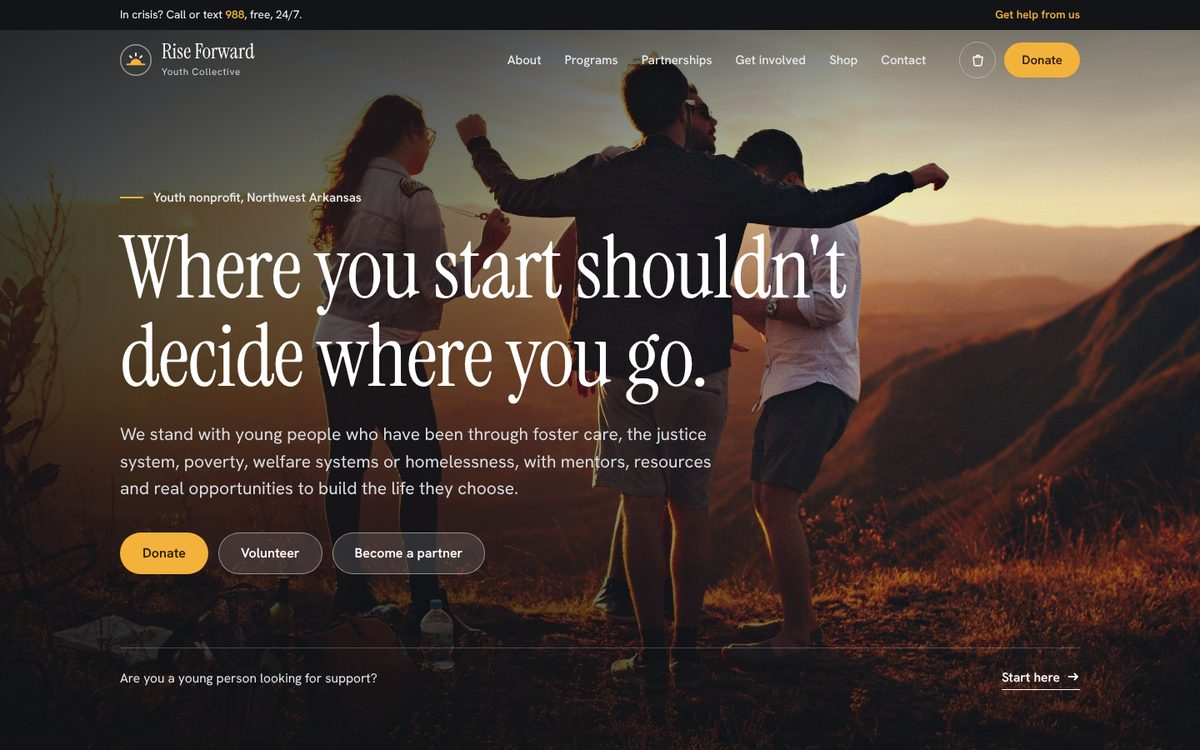
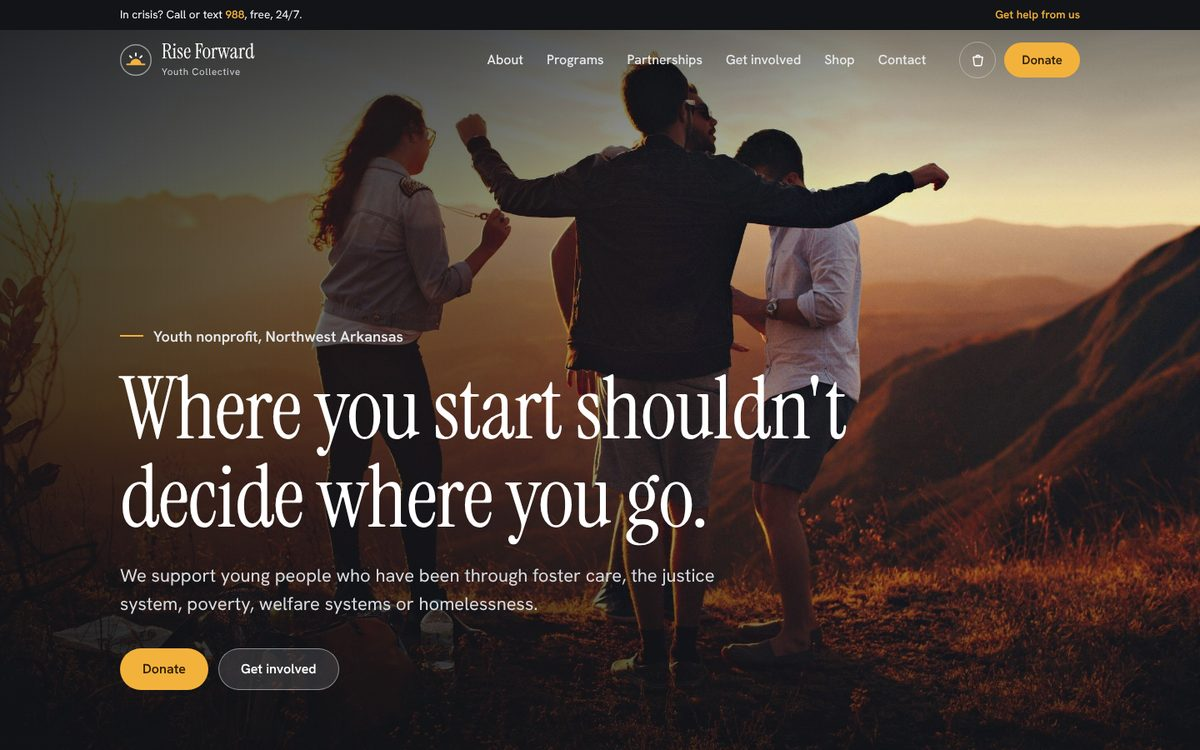
Rise Forward: simpler home page from client feedback
Two buttons in the hero, mission placeholder for the founder's wording,
program cards with text under the photo (stacked on phones), fewer buttons
in the help section, larger reading text, and warmer stats wording
('We are the hope of change'). Work page screenshots refreshed.

Claude-Session: https://claude.ai/code/session_01PLRpbjACppmeCpJ4SsRjVn

diff --git a/riseforward/index.html b/riseforward/index.html
@@ -21,7 +21,7 @@
 @font-face{font-family:"Instrument Serif";src:url(fonts/instrument-italic.woff2) format("woff2");font-weight:400;font-style:italic;font-display:swap}
 @font-face{font-family:"Hanken Grotesk";src:url(fonts/hanken.woff2) format("woff2");font-weight:400 700;font-style:normal;font-display:swap}
 :root{
---ink:#1d2024;--ink2:#2b2f34;--slate:#50565e;--mute:#6a7078;--line:#dcd9d3;--line2:#cfcbc4;
+--ink:#1d2024;--ink2:#2b2f34;--slate:#454b53;--mute:#5f656d;--line:#dcd9d3;--line2:#cfcbc4;
 --paper:#f6f5f2;--stone:#ebe8e3;--white:#fff;--sun:#f3b23c;--sun2:#ffc65c;--sun-ink:#2a1c00;
 --dline:rgba(255,255,255,.14);--dmute:#aeb3ba;
 --serif:"Instrument Serif",Georgia,"Times New Roman",serif;--sans:"Hanken Grotesk",system-ui,-apple-system,"Segoe UI",sans-serif;
@@ -371,6 +371,7 @@ body{font-size:16.5px}
 .cards4{display:flex;overflow-x:auto;scroll-snap-type:x mandatory;gap:12px;margin-inline:calc(var(--pad) * -1);padding-inline:var(--pad);scrollbar-width:none;padding-bottom:4px}
 .cards4::-webkit-scrollbar{display:none}
 .cards4 .pcard{flex:0 0 80%;scroll-snap-align:start;scroll-margin-left:var(--pad)}
+.cards4.simple{display:grid;grid-template-columns:1fr;overflow:visible;margin-inline:0;padding-inline:0;gap:40px}
 .stats{grid-template-columns:1fr}
 .stat,.stat+.stat{padding:28px 0;border-left:0}
 .stat+.stat{border-top:1px solid var(--dline)}
@@ -396,6 +397,25 @@ body{font-size:16.5px}
 .hero .bg{transform:none}.rise{opacity:1;transform:none}
 .js [data-reveal]{opacity:1;transform:none}
 }
+
+/* readable, structured cards (home) */
+.scard{display:flex;flex-direction:column;text-decoration:none;color:inherit}
+.scard .ph{aspect-ratio:4/3;border-radius:10px;overflow:hidden;background:#d8d5cf}
+.scard .ph img{width:100%;height:100%;object-fit:cover;transition:transform 1s var(--ease)}
+.scard:hover .ph img{transform:scale(1.04)}
+.scard small{display:block;margin-top:20px;font-size:15px;font-weight:600;color:var(--slate)}
+.scard h3{font:400 32px/1.1 var(--serif);margin-top:6px}
+.scard p{margin-top:10px;color:var(--ink2)}
+.more{display:inline-block;margin-top:16px;font-weight:600;text-decoration:underline;text-decoration-thickness:1.5px;text-underline-offset:4px}
+.scard:hover .more,.way:hover .more{color:#000;text-decoration-thickness:2.5px}
+a.way{display:block;text-decoration:none;color:inherit}
+.cards4.simple{gap:clamp(20px,2.4vw,32px)}
+/* larger, calmer reading on the home page */
+[data-page=home] .lede{font-size:clamp(19px,1.6vw,22px)}
+[data-page=home] p{font-size:18px}
+[data-page=home] .stat p{font-size:19px}
+[data-page=home] .note{font-size:15px}
+.links a{font-size:16px}
 .concept{position:fixed;left:16px;bottom:16px;z-index:60;display:inline-flex;align-items:center;gap:10px;padding:10px 16px 10px 14px;border-radius:999px;background:rgba(21,23,26,.92);color:#fff;font:500 13.5px/1.2 var(--sans);text-decoration:none;box-shadow:0 10px 30px -10px rgba(0,0,0,.5);backdrop-filter:blur(10px);-webkit-backdrop-filter:blur(10px);border:1px solid rgba(255,255,255,.12)}
 .concept i{width:8px;height:8px;border-radius:50%;background:var(--sun);flex:none;box-shadow:0 0 0 4px rgba(243,178,60,.22)}
 .concept b{font-weight:600}
@@ -439,9 +459,8 @@ body{font-size:16.5px}
 <div class="wrap on-photo">
 <p class="kicker rise">Youth nonprofit, Northwest Arkansas</p>
 <h1 class="rise d1" style="margin-top:20px">Where you start shouldn't decide where you go.</h1>
-<p class="lede rise d2">We stand with young people who have been through foster care, the justice system, poverty, welfare systems or homelessness, with mentors, resources and real opportunities to build the life they choose.</p>
-<div class="ctas rise d3"><a class="btn sun" href="#donate">Donate</a><a class="btn glass" href="#get-involved">Volunteer</a><a class="btn glass" href="#partners">Become a partner</a></div>
-<div class="hero-foot rise d4"><span>Are you a young person looking for support?</span><a class="arrow" href="#get-help">Start here <svg width="16" height="16" viewBox="0 0 16 16" fill="none" stroke="currentColor" stroke-width="1.8" aria-hidden="true"><path d="M2 8h11M9 4l4 4-4 4"/></svg></a></div>
+<p class="lede rise d2">We support young people who have been through foster care, the justice system, poverty, welfare systems or homelessness.</p>
+<div class="ctas rise d3"><a class="btn sun" href="#donate">Donate</a><a class="btn glass" href="#get-involved">Get involved</a></div>
 </div>
 </div>
 
@@ -449,60 +468,39 @@ body{font-size:16.5px}
 <div class="ph" data-reveal><img src="img/friends.jpg" alt="Young friends laughing together on outdoor steps" width="1600" height="901" loading="lazy"></div>
 <div data-reveal data-d="1">
 <p class="kicker">Our mission</p>
-<p class="big" style="margin-top:22px">We walk alongside young people until they're standing on their own: connecting them to the people, resources and opportunities they need to build stable, self-directed lives.</p>
-<div class="vision">
-<div><h3>Our vision</h3><p>A future where a young person's starting point never decides where they can go.</p></div>
-<div><h3>Who we serve</h3><p>Young people, roughly ages 14 to 24, whose path has been shaped by systems they didn't choose.</p></div>
-</div>
-<p class="note" style="margin-top:22px">Draft mission and vision. Final wording to be set by the founder and board.</p>
-<p style="margin-top:26px"><a class="arrow" href="#about">Read our story <svg width="16" height="16" viewBox="0 0 16 16" fill="none" stroke="currentColor" stroke-width="1.8" aria-hidden="true"><path d="M2 8h11M9 4l4 4-4 4"/></svg></a></p>
+<p class="big" style="margin-top:22px">We walk alongside young people until they're standing on their own, connecting them to the people, resources and opportunities they need to build stable lives.</p>
+<p class="note" style="margin-top:22px">Placeholder. The final mission statement is being written by the founder.</p>
 </div>
 </div></div>
 
 <div class="sec white"><div class="wrap">
-<div class="head"><div><p class="kicker">Who we serve, and how</p><h2>A program for every starting point.</h2></div><p class="lede">Four programs in development, each built around a different transition, with youth who have lived it helping shape the work.</p></div>
-<div class="cards4" id="homePrograms"></div>
+<div class="head"><div><p class="kicker">Who we serve</p><h2>Four programs, one goal.</h2></div><p class="lede">Each program supports young people, ages 14 to 24, through a different life transition.</p></div>
+<div class="cards4 simple" id="homePrograms"></div>
 </div></div>
 
 <div class="sec dark"><div class="wrap">
-<div class="head"><div><p class="kicker">Why this work matters</p><h2>The need is real, and it's measurable.</h2></div><p class="lede">National figures that show why we start at the moments young people most often fall through the gaps.</p></div>
+<div class="head"><div><p class="kicker">Why this work matters</p><h2>We are the hope of change.</h2></div><p class="lede">Behind every number is a young person whose voice matters. When we invest in them, our whole community grows stronger.</p></div>
 <div class="stats" data-reveal>
-<div class="stat"><b>15,379</b><p>young people aged out of U.S. foster care in fiscal year 2024 without a permanent family.</p><a href="https://adoptioncouncil.org/article/foster-care-and-adoption-statistics">National Council for Adoption, from federal AFCARS data</a></div>
-<div class="stat"><b>4.2M</b><p>U.S. youth and young adults, ages 13 to 25, experience some form of homelessness in a year.</p><a href="https://huduser.gov/portal/node/9693">Chapin Hall, Voices of Youth Count, via HUD</a></div>
-<div class="stat"><b>1 in 10</b><p>young adults ages 18 to 25 experience homelessness over a year, and at least 1 in 30 teens ages 13 to 17.</p><a href="https://www.chapinhall.org/news/ahead-of-congressional-reauthorization-new-study-shows-greater-reform-is-needed-in-runaway-and-homeless-youth-act/">Chapin Hall</a></div>
+<div class="stat"><b>15,379</b><p>young people aged out of U.S. foster care in 2024 without a permanent family.</p><a href="https://adoptioncouncil.org/article/foster-care-and-adoption-statistics">Source: National Council for Adoption</a></div>
+<div class="stat"><b>4.2M</b><p>U.S. youth and young adults, ages 13 to 25, experience homelessness in a year.</p><a href="https://huduser.gov/portal/node/9693">Source: Chapin Hall, via HUD</a></div>
+<div class="stat"><b>1 in 10</b><p>young adults ages 18 to 25 experience homelessness over a year.</p><a href="https://www.chapinhall.org/news/ahead-of-congressional-reauthorization-new-study-shows-greater-reform-is-needed-in-runaway-and-homeless-youth-act/">Source: Chapin Hall</a></div>
 </div>
 </div></div>
 
 <div class="sec"><div class="wrap">
-<div class="head"><div><p class="kicker">Get involved</p><h2>There's a place for you in this work.</h2></div><p class="lede">Give, show up or bring your organization to the table. Every role is about being consistent for young people.</p></div>
+<div class="head"><div><p class="kicker">How you can help</p><h2>There's a place for you.</h2></div></div>
 <div class="ways">
-<div class="way" data-reveal><div class="ph"><img src="img/give.jpg" alt="A smiling volunteer holding a box of fresh groceries" width="1400" height="2100" loading="lazy" style="object-position:50% 18%"></div><h3>Give</h3><p>One-time or monthly gifts fund programs directly. You choose where your gift goes.</p><a class="btn sun sm" href="#donate">Donate</a></div>
-<div class="way" data-reveal data-d="1"><div class="ph"><img src="img/volunteer.jpg" alt="A volunteer carrying a donation box" width="1600" height="1067" loading="lazy"></div><h3>Volunteer or mentor</h3><p>Share your time, skills or experience with a young person building their next step.</p><a class="btn ink sm" href="#get-involved">Get involved</a></div>
-<div class="way" data-reveal data-d="2"><div class="ph"><img src="img/partners.jpg" alt="A group of young adults talking and laughing outdoors" width="1600" height="1066" loading="lazy"></div><h3>Partner with us</h3><p>Service providers, employers, funders and community groups: let's build this together.</p><a class="btn line sm" href="#partners">Explore partnerships</a></div>
+<a class="way" href="#donate" data-reveal><div class="ph"><img src="img/give.jpg" alt="A smiling volunteer holding a box of fresh groceries" width="1400" height="2100" loading="lazy" style="object-position:50% 18%"></div><h3>Give</h3><p>One-time or monthly gifts fund our programs directly.</p><span class="more">Donate</span></a>
+<a class="way" href="#get-involved" data-reveal data-d="1"><div class="ph"><img src="img/volunteer.jpg" alt="A volunteer carrying a donation box" width="1600" height="1067" loading="lazy"></div><h3>Volunteer or mentor</h3><p>Share your time, skills or experience with a young person.</p><span class="more">Volunteer</span></a>
+<a class="way" href="#partners" data-reveal data-d="2"><div class="ph"><img src="img/partners.jpg" alt="A group of young adults talking and laughing outdoors" width="1600" height="1066" loading="lazy"></div><h3>Partner with us</h3><p>Organizations, employers and funders working with us.</p><span class="more">Partner with us</span></a>
 </div>
-</div></div>
-
-<div class="sec stone"><div class="wrap feature">
-<div class="ph" data-reveal><img src="img/graduate.jpg" alt="A smiling graduate in cap and gown" width="1400" height="2114" loading="lazy" style="object-position:50% 25%"></div>
-<div data-reveal data-d="1">
-<p class="kicker">Where we're headed</p>
-<h2>A plan, a person and a place for every young person.</h2>
-<p class="lede">In our first years we're building four core programs, forming partnerships with local providers and employers, and recruiting our first mentors. Long term, every young person leaving a system in our community should have someone in their corner.</p>
-<div class="ctas"><a class="btn ink" href="#programs">See our programs</a><a class="btn line" href="#about">About us</a></div>
-</div>
-</div></div>
-
-<div class="sec white"><div class="wrap">
-<div class="head"><div><p class="kicker">Shop</p><h2>Wear what you stand for.</h2></div><div><p class="lede">Apparel and goods from Rise Forward, plus move-in kits you can sponsor for a young person's first home.</p><p style="margin-top:20px"><a class="arrow" href="#shop">Visit the shop <svg width="16" height="16" viewBox="0 0 16 16" fill="none" stroke="currentColor" stroke-width="1.8" aria-hidden="true"><path d="M2 8h11M9 4l4 4-4 4"/></svg></a></p></div></div>
-<div class="pgrid four" id="homeProducts"></div>
 </div></div>
 
 <div class="band-photo">
 <img src="img/together.jpg" alt="" width="1600" height="1128" loading="lazy">
 <div class="wrap">
-<p class="kicker" style="color:#e6e8eb">Make the next step possible</p>
-<h2 style="margin-top:18px">Help a young person take the next step.</h2>
-<div class="ctas"><a class="btn sun" href="#donate">Donate today</a><a class="btn glass" href="#get-involved">Volunteer</a></div>
+<h2>Help a young person take the next step.</h2>
+<div class="ctas"><a class="btn sun" href="#donate">Donate</a></div>
 </div>
 </div>
 </section>
@@ -529,7 +527,7 @@ body{font-size:16.5px}
 </div>
 </div></div>
 <div class="sec dark"><div class="wrap">
-<div class="head"><div><p class="kicker">The challenges young people face</p><h2>The gaps are where young people fall.</h2></div><p class="lede">Leaving care, coming home from detention, losing housing, or getting lost in benefits paperwork: each transition can undo years of progress without the right support.</p></div>
+<div class="head"><div><p class="kicker">The challenges young people face</p><h2>Their voices matter. So does our community.</h2></div><p class="lede">Leaving care, coming home from detention, losing housing or getting lost in paperwork can set a young person back. With the right support, each of these moments can become a fresh start, and a stronger community for all of us.</p></div>
 <div class="stats" data-reveal>
 <div class="stat"><b>15,379</b><p>young people aged out of U.S. foster care in fiscal year 2024 without a permanent family.</p><a href="https://adoptioncouncil.org/article/foster-care-and-adoption-statistics">National Council for Adoption, from federal AFCARS data</a></div>
 <div class="stat"><b>4.2M</b><p>U.S. youth and young adults, ages 13 to 25, experience some form of homelessness in a year.</p><a href="https://huduser.gov/portal/node/9693">Chapin Hall, Voices of Youth Count, via HUD</a></div>
@@ -740,7 +738,7 @@ body{font-size:16.5px}
 </main>
 
 <footer class="site"><div class="wrap">
-<div class="fbig"><h2>Every young person deserves someone in their corner.</h2><a class="btn sun" href="#donate">Donate</a></div>
+<div class="fbig"><h2>Every young person deserves someone in their corner.</h2></div>
 <div class="fcols">
 <div><p style="font:400 26px/1.1 var(--serif);color:#fff">Rise Forward Youth Collective</p><p style="margin-top:12px;max-width:24em">Supporting young people impacted by foster care, the justice system, poverty, welfare systems and homelessness.</p><p style="margin-top:14px">Need help now? Call or text <a class="tlink" href="tel:988" style="color:#fff">988</a>.</p></div>
 <nav aria-label="Organization"><b>Organization</b><a href="#about">About</a><a href="#programs">Programs</a><a href="#partners">Partnerships</a><a href="#get-involved">Get involved</a></nav>
@@ -775,7 +773,7 @@ const PROGRAMS=[
 {id:'steady-ground',name:'Steady Ground',group:'Poverty and homelessness',img:'steady-ground.jpg',pos:'45% 50%',alt:'Volunteers packing boxes of food and essentials',short:'Housing navigation, emergency essentials and connections to safe shelter.',who:'Young people experiencing homelessness, couch surfing or living in poverty.',intro:'Stability starts with tonight. Steady Ground connects young people to a safe place to stay and then to the steps that lead to housing of their own.',goals:['Safe shelter or housing the same week','Basic needs covered: food, hygiene, a working phone','A path to stable housing within 90 days'],res:['Housing navigation','Emergency essentials and hygiene kits','Shelter and host-home referrals','Food access','Phone and transit support']},
 {id:'navigate',name:'Navigate',group:'Welfare systems',img:'navigate.jpg',pos:'45% 50%',alt:'A young person meeting one-on-one with an advisor',short:'One-on-one help with benefits, paperwork and appointments for youth and families.',who:'Young people and families working through welfare and benefits systems.',intro:'Benefits are supposed to help, but the paperwork can bury people. Navigate gives youth and families a guide through applications, renewals and appointments.',goals:['Benefits applied for and kept active','Fewer missed appointments and lapsed coverage','Families confident handling it on their own'],res:['One-on-one benefits navigation (SNAP, Medicaid, TANF and others)','Help with forms and renewals','Someone to come along to appointments','Family workshops','Advocacy when something goes wrong']}
 ];
-$('#homePrograms').innerHTML=PROGRAMS.map((p,i)=>`<a class="pcard" href="#program-${p.id}" data-reveal data-d="${i}"><img src="img/${p.img}" alt="" loading="lazy" style="object-position:${p.pos}"><div class="in"><small>${esc(p.group)}</small><h3>${esc(p.name)}</h3><p>${esc(p.short)}</p><span class="go">Explore ${esc(p.name)} ${ARROW}</span></div></a>`).join('');
+$('#homePrograms').innerHTML=PROGRAMS.map((p,i)=>`<a class="scard" href="#program-${p.id}" data-reveal data-d="${i}"><div class="ph"><img src="img/${p.img}" alt="" loading="lazy" style="object-position:${p.pos}"></div><small>${esc(p.group)}</small><h3>${esc(p.name)}</h3><p>${esc(p.short)}</p><span class="more">Learn more</span></a>`).join('');
 $('#programList').innerHTML=PROGRAMS.map(p=>`<article class="prog" id="program-${p.id}">
 <div class="ph" data-reveal><img src="img/${p.img}" alt="${esc(p.alt)}" loading="lazy" style="object-position:${p.pos}"></div>
 <div data-reveal data-d="1"><span class="status">In development</span><h2>${esc(p.name)}</h2><p class="who">${esc(p.who)}</p><p class="intro lede">${esc(p.intro)}</p>
@@ -808,7 +806,7 @@ let cat='All';
 const CATS=['All',...new Set(PRODUCTS.map(p=>p.cat))];
 const drawShop=()=>{$('#cats').innerHTML=CATS.map(c=>`<button type="button" class="chip" aria-pressed="${c===cat}" data-cat="${esc(c)}">${esc(c)}</button>`).join('');$('#productGrid').innerHTML=PRODUCTS.filter(p=>cat==='All'||p.cat===cat).map(card).join('');reveal()};
 $('#cats').addEventListener('click',e=>{const b=e.target.closest('[data-cat]');if(!b)return;cat=b.dataset.cat;drawShop()});
-$('#homeProducts').innerHTML=[0,2,3,5].map(i=>card(PRODUCTS[i])).join('');
+
 
 /* cart */
 let cart=[];
